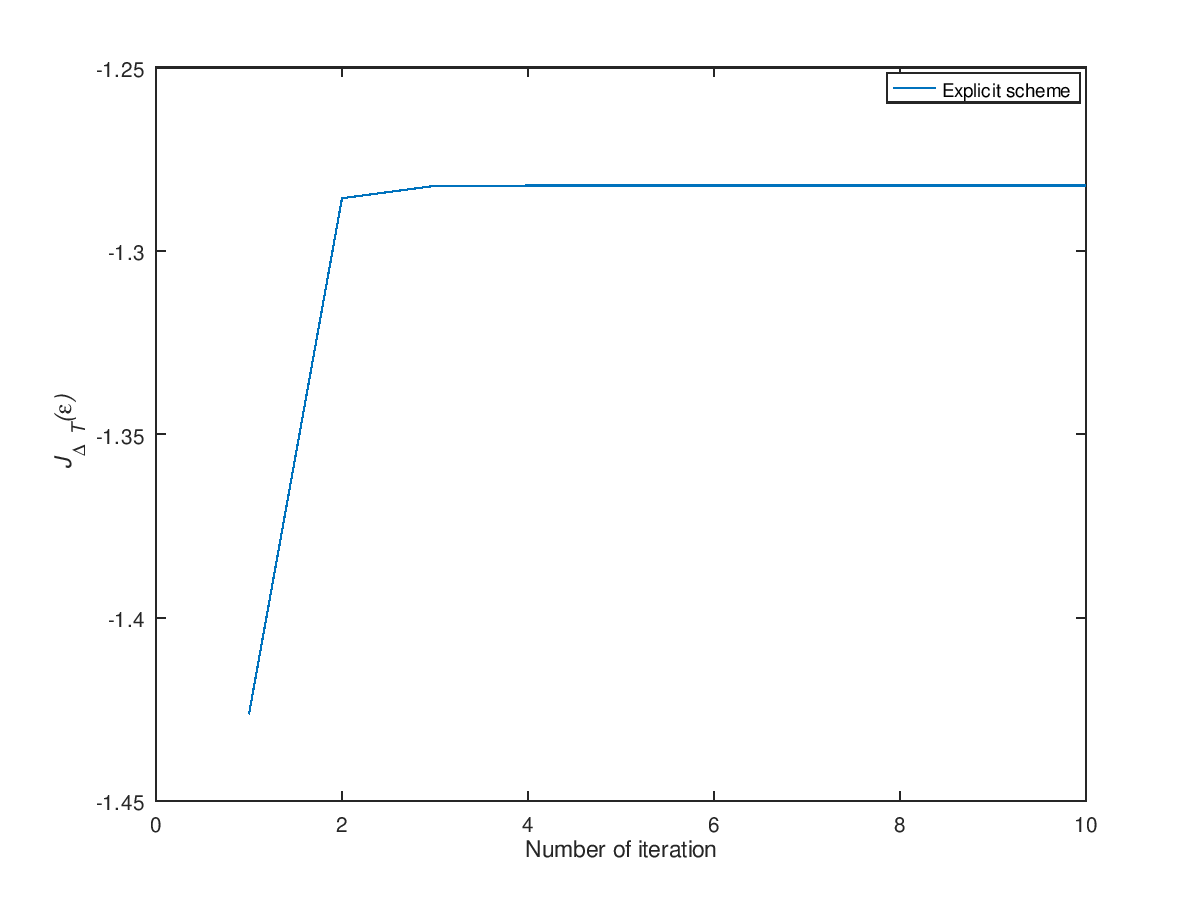
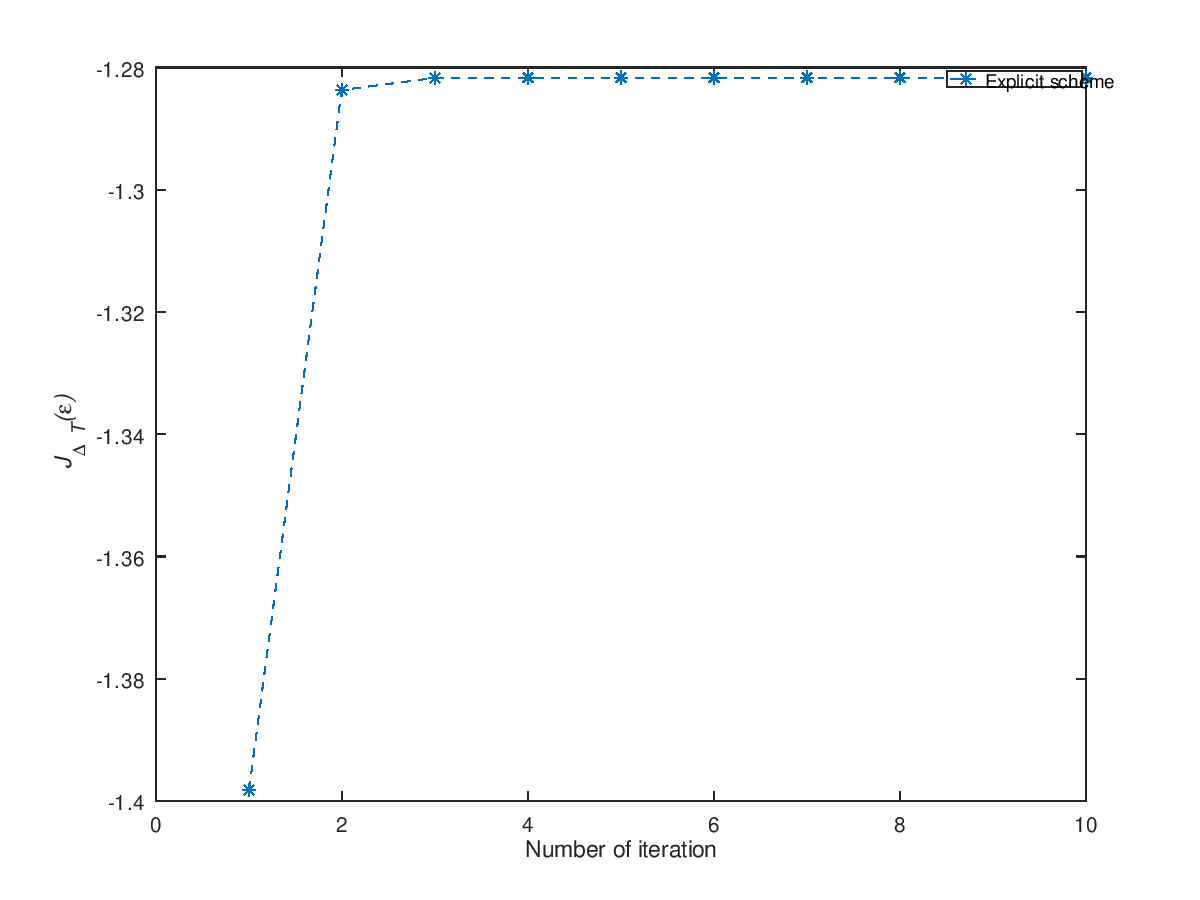
Continue harder

diff --git a/implicit.m b/implicit.m
@@ -44,7 +44,6 @@ for iter=1:maxiter
   %step1
     for j=L-1:-1:1
     chib(:,j+1)=expm(-(H0*dt)/(2*i))*p(:,j+1);
-    %psit(:,j)=expm(-(H0*dt)/(2*i))*y(:,j); %k+1
     f = @(x)x+(1/alpha)*imag(chib(:,j+1).'*calculMus(c(j),x,H1,dt)*psit(:,j+1));
     if (j==L-1)
       x0=ctil(L-1);
@@ -82,15 +81,15 @@ for iter=1:maxiter
   J=2*real(ycible.'*y(:,L)) - alpha * dt * norm(c)^2;
   
   Jtab(iter)=J;
-	plot(Jtab);
+	plot(Jtab, '--*');
   xlabel("Number of iteration");
   ylabel ('{\it J_{\Delta T}(\epsilon)}')
   legend ("Implicit scheme");
-	pause(.1);
+	%pause(.1);
   
 	fprintf(2,'Iter=%i|J=%f \n',iter,J)
 end
-fprintf(1,'y(T)=%f \n',y(:,L))
+%fprintf(1,'y(T)=%f \n',y(:,L))
 
 end
 

diff --git a/explicit.m b/explicit.m
@@ -1,7 +1,7 @@
 function explicit
 %============= Variables =================
 T	=10;
-L	=20; %return to 200
+L	=200; %return to 200
 t	=linspace(0,T,L);
 dt	=t(2)-t(1);
 
@@ -68,15 +68,15 @@ for iter=1:maxiter
   J=2*real(ycible'*y(:,L)) - alpha * dt * norm(c)^2;
   
   Jtab(iter)=J;
-	plot(Jtab);
+	plot(Jtab, '--*');
   xlabel("Number of iteration");
   ylabel ('{\it J_{\Delta T}(\epsilon)}')
   legend ("Explicit scheme");
-	pause(.1);
+	%pause(.1);
   
 	fprintf(2,'Iter=%i|J=%f \n',iter,J)
 end
-fprintf(1,'y(T)=%f \n',y(:,L))
+%fprintf(1,'y(T)=%f \n',y(:,L))
 
 end
 
